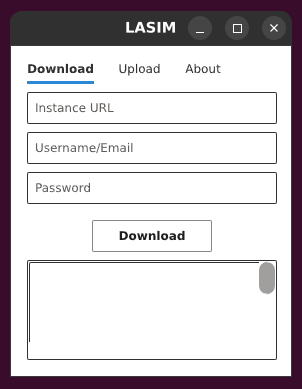
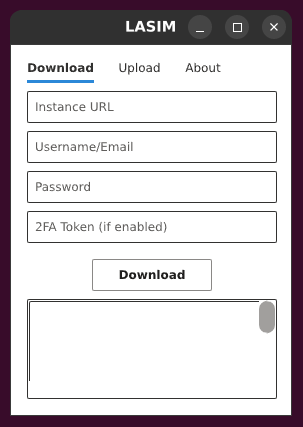
Add 2FA Login Option
Add UI and logic for 2FA.
Write error log if program panics.
Omit URL for GET request errors so the JWT token is not displayed.
Update screenshot.

Changed region(s): [[0.0298, 0.0, 0.9834, 0.9871]]

diff --git a/src/main.rs b/src/main.rs
@@ -19,12 +19,39 @@ slint::include_modules!();
 
 // TODO: In the future, if needed, support versioning of this file. For now, hard-code.
 const PROFILE_FILENAME: &str = "profile_v1.json";
+const PANIC_LOG: &str = "error.log";
 
 struct ProcessingInstruction {
     instruction_type: SharedString,
     instance: SharedString,
     username: SharedString,
     password: SharedString,
+    two_factor_token: SharedString,
+}
+
+fn write_panic_info(info: &String) {
+    let path = Path::new(PANIC_LOG);
+    let mut file = match File::create(&path) {
+        Ok(file) => file,
+        Err(_) => return
+    };
+
+    file.write_all(info.as_bytes()).ok();
+}
+
+fn evaluate_two_factor_token(token: &String) -> Result<Option<String>, &str> {
+    if token.is_empty() {
+        return Ok(None);
+    }
+
+    if token.chars().count() != 6 {
+        return Err("2FA Token should be 6 characters")
+    }
+
+    match token.parse::<u32>() {
+        Ok(_) => Ok(Some(token.clone())),
+        Err(_) => Err("2FA Token should be a number"),
+    }
 }
 
 fn write_profile(profile_local: &profile::ProfileConfiguration, mut logger: impl FnMut(String)) {
@@ -54,6 +81,13 @@ async fn process_download(processing_instruction: ProcessingInstruction, mut log
     let mut instance = processing_instruction.instance.to_string();
     let username = processing_instruction.username.to_string();
     let password = processing_instruction.password.to_string();
+    let two_factor_token = match evaluate_two_factor_token(&processing_instruction.two_factor_token.to_string()) {
+        Ok(token) => token,
+        Err(e) => {
+            logger(format!("ERROR: Invalid 2FA Token - {}", e));
+            return;
+        },
+    };
 
     if !instance.starts_with("http") {
         instance.insert_str(0, "https://");
@@ -69,7 +103,7 @@ async fn process_download(processing_instruction: ProcessingInstruction, mut log
 
     // Login
     logger(format!("Logging in as {}", username));
-    let jwt_token_future = api.login(&username, &password);
+    let jwt_token_future = api.login(&username, &password, two_factor_token);
     let jwt_token_result = block_on(jwt_token_future);
     if jwt_token_result.is_err() {
         logger(format!("ERROR: Failed Login - {}", jwt_token_result.unwrap_err()));
@@ -129,6 +163,13 @@ async fn process_upload(processing_instruction: ProcessingInstruction, mut logge
     let mut instance = processing_instruction.instance.to_string();
     let username = processing_instruction.username.to_string();
     let password = processing_instruction.password.to_string();
+    let two_factor_token = match evaluate_two_factor_token(&processing_instruction.two_factor_token.to_string()) {
+        Ok(token) => token,
+        Err(e) => {
+            logger(format!("ERROR: Invalid 2FA Token - {}", e));
+            return;
+        },
+    };
 
     if !instance.starts_with("http") {
         instance.insert_str(0, "https://");
@@ -144,7 +185,7 @@ async fn process_upload(processing_instruction: ProcessingInstruction, mut logge
 
     // Login
     logger(format!("Logging in as {}", username));
-    let jwt_token_future = api.login(&username, &password);
+    let jwt_token_future = api.login(&username, &password, two_factor_token);
     let jwt_token_result = block_on(jwt_token_future);
     if jwt_token_result.is_err() {
         logger(format!("ERROR: Failed Login - {}", jwt_token_result.unwrap_err()));
@@ -268,6 +309,18 @@ async fn process_upload(processing_instruction: ProcessingInstruction, mut logge
 }
 
 fn main() {
+    // Setup some kind of logging for if we crash
+    let panic_hook = std::panic::take_hook();
+    std::panic::set_hook(Box::new(move |panic_info| {
+        if let Some(s) = panic_info.payload().downcast_ref::<&str>() {
+            write_panic_info(&format!("Unexpected Error Occurred: {s:?}"));
+        } else {
+            write_panic_info(&"Unknown Error Occurred!".to_string());
+        }
+        panic_hook(panic_info);
+        std::process::exit(1);
+    }));
+
     // Setup processing thread communication
     let (instruct_tx, instruct_rx): (Sender<ProcessingInstruction>, Receiver<ProcessingInstruction>) = mpsc::channel();
     let instruct_tx_copy = instruct_tx.clone();
@@ -334,6 +387,7 @@ fn main() {
                     instance: app_weak_clone.unwrap().get_download_instance_url(),
                     username: app_weak_clone.unwrap().get_download_username_input(),
                     password: app_weak_clone.unwrap().get_download_password_input(),
+                    two_factor_token: app_weak_clone.unwrap().get_download_two_factor_input(),
                 };
 
                 instruct_tx.send(download_instruction).unwrap();
@@ -346,6 +400,7 @@ fn main() {
                     instance: app_weak_clone.unwrap().get_upload_instance_url(),
                     username: app_weak_clone.unwrap().get_upload_username_input(),
                     password: app_weak_clone.unwrap().get_upload_password_input(),
+                    two_factor_token: app_weak_clone.unwrap().get_upload_two_factor_input(),
                 };
 
                 instruct_tx.send(upload_instruction).unwrap();
@@ -362,6 +417,7 @@ fn main() {
         instance: "".into(),
         username: "".into(),
         password: "".into(),
+        two_factor_token: "".into(),
     }).unwrap();
     main_thread.join().unwrap();
 }

diff --git a/src/lemmy/api.rs b/src/lemmy/api.rs
@@ -27,12 +27,12 @@ impl API {
         }
     }
 
-    pub async fn login(&self, username: &String, password: &String) -> Result<String, Error> {
+    pub async fn login(&self, username: &String, password: &String, two_factor_token: Option<String>) -> Result<String, Error> {
         let url = self.instance.join("/api/v3/user/login").unwrap();
         let params = person::Login {
             username_or_email: Sensitive::new(username.clone()),
             password: Sensitive::new(password.clone()),
-            ..Default::default() // TODO: Add totp_2fa_token for instances with 2-factor
+            totp_2fa_token: two_factor_token,
         };
     
         let response: Response = self.client
@@ -72,11 +72,11 @@ impl API {
                 let json_result = response.json::<site::GetSiteResponse>().await;
                 match json_result {
                     Ok(json) => return Ok(json),
-                    Err(e) => return Err(e),
+                    Err(e) => return Err(e.without_url()),
                 }
             },
             Err(e) => {
-                return Err(e);
+                return Err(e.without_url());
             }
         }
     }
@@ -102,11 +102,11 @@ impl API {
                 let json_result = response.json::<community::GetCommunityResponse>().await;
                 match json_result {
                     Ok(json) => return Ok(json),
-                    Err(e) => return Err(e),
+                    Err(e) => return Err(e.without_url()),
                 }
             },
             Err(e) => {
-                return Err(e);
+                return Err(e.without_url());
             }
         }
     }
@@ -194,11 +194,11 @@ impl API {
                 let json_result = response.json::<person::GetPersonDetailsResponse>().await;
                 match json_result {
                     Ok(json) => return Ok(json),
-                    Err(e) => return Err(e),
+                    Err(e) => return Err(e.without_url()),
                 }
             },
             Err(e) => {
-                return Err(e);
+                return Err(e.without_url());
             }
         }
     }
